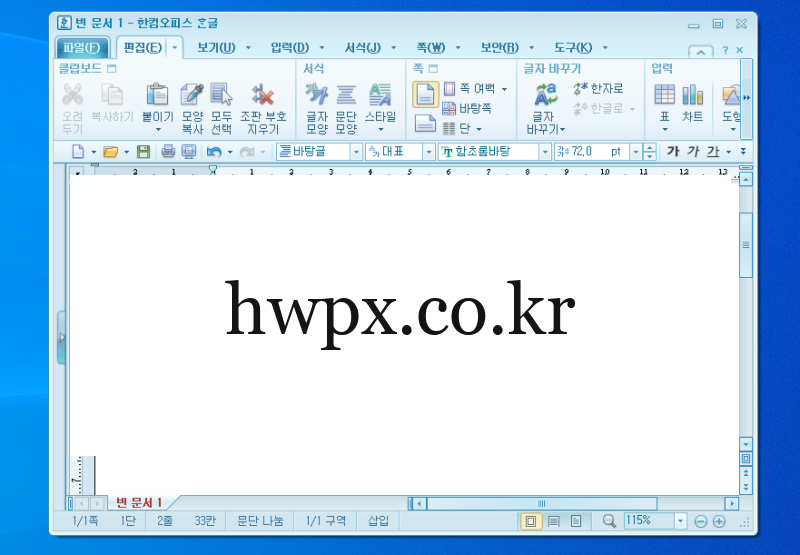
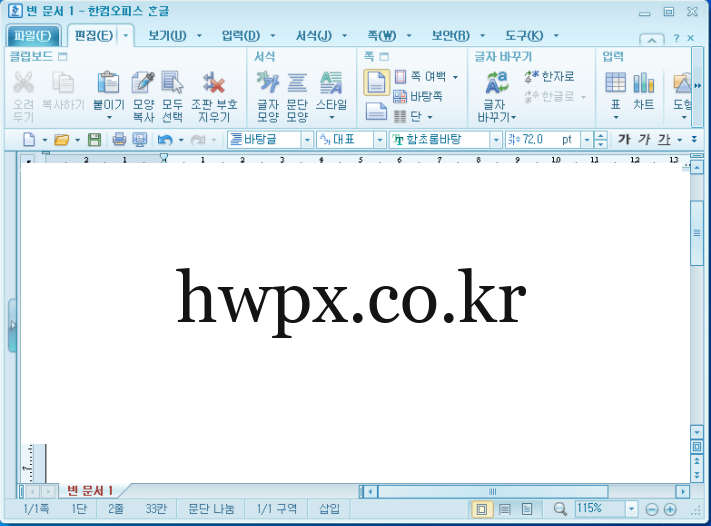
히어로에서 파란 배경을 빼고 안내 문장을 PC에서만 나눈다.

diff --git a/src/styles/global.css b/src/styles/global.css
@@ -214,9 +214,9 @@ button, input { font: inherit; }
 
 .hero-grid {
   display: grid;
-  grid-template-columns: 1.2fr 0.8fr;
-  gap: 36px;
-  align-items: center;
+  grid-template-columns: 1.1fr 1fr;
+  gap: 28px;
+  align-items: stretch;
 }
 
 .hero h1 {
@@ -232,6 +232,8 @@ button, input { font: inherit; }
   font-size: 1.08rem;
   max-width: 38rem;
 }
+
+.pc-br { display: none; }
 
 .hero-actions {
   display: flex;
@@ -250,16 +252,19 @@ button, input { font: inherit; }
 .hero-shot {
   margin: 0;
   border: 1px solid var(--line);
-  border-radius: 22px;
+  border-radius: 18px;
   overflow: hidden;
   box-shadow: var(--shadow);
-  background: #1f4fd8;
+  background: var(--bg-elev);
+  align-self: stretch;
 }
 
 .hero-shot img {
   display: block;
   width: 100%;
-  height: auto;
+  height: 100%;
+  object-fit: cover;
+  object-position: top center;
 }
 
 .stat-grid,
@@ -471,6 +476,10 @@ button, input { font: inherit; }
   height: 1px;
   overflow: hidden;
   clip: rect(0, 0, 0, 0);
+}
+
+@media (min-width: 861px) {
+  .pc-br { display: unset; }
 }
 
 @media (max-width: 860px) {
